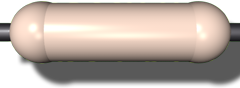
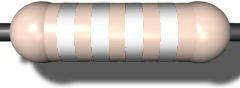
Modified ResistorView to allow user to select different colours on each band

diff --git a/Classes/ResistorViewController.m b/Classes/ResistorViewController.m
@@ -11,36 +11,52 @@
 
 @implementation ResistorViewController
 
-/*
- // The designated initializer. Override to perform setup that is required before the view is loaded.
- - (id)initWithNibName:(NSString *)nibNameOrNil bundle:(NSBundle *)nibBundleOrNil {
- if (self = [super initWithNibName:nibNameOrNil bundle:nibBundleOrNil]) {
- // Custom initialization
- }
- return self;
- }
- */
+@synthesize band1;
+@synthesize band2;
+@synthesize band3;
+@synthesize band4;
 
-/*
- // Implement loadView to create a view hierarchy programmatically, without using a nib.
- - (void)loadView {
- }
- */
-
-/*
- // Implement viewDidLoad to do additional setup after loading the view, typically from a nib.
- - (void)viewDidLoad {
- [super viewDidLoad];
- }
- */
-
-/*
- // Override to allow orientations other than the default portrait orientation.
- - (BOOL)shouldAutorotateToInterfaceOrientation:(UIInterfaceOrientation)interfaceOrientation {
- // Return YES for supported orientations
- return (interfaceOrientation == UIInterfaceOrientationPortrait);
- }
- */
+- (void)viewDidLoad {
+    [super viewDidLoad];
+	
+	// The colours that could be displayed on each band
+	int nColours = 12;
+	UIColor * colours[] = { 
+		[UIColor colorWithRed:0.75 green:0.75 blue:0.75 alpha:1.0], // Silver
+		[UIColor colorWithRed:1.00 green:0.84 blue:0.00 alpha:1.0], // Gold
+		[UIColor blackColor],
+		[UIColor brownColor],
+		[UIColor redColor],
+		[UIColor orangeColor],
+		[UIColor yellowColor],
+		[UIColor greenColor],
+		[UIColor blueColor],
+		[UIColor purpleColor],
+		[UIColor grayColor],
+		[UIColor whiteColor]
+	};
+	
+	// For each band
+	UIScrollView * bands[] = {band1, band2, band3, band4};
+	for (int band = 0; band < 4; band++)
+	{	
+		// Configure it's UIScrollView control
+		UIScrollView * bandCtrl = bands[band];
+		bandCtrl.contentSize = CGSizeMake(bandCtrl.bounds.size.width, bandCtrl.bounds.size.height * nColours);
+		bandCtrl.showsVerticalScrollIndicator = NO;
+		
+		// And add the coloured rectangles as subviews
+		for (int nColour = 0; nColour < nColours; nColour++)
+		{
+			UIView * colorView = [[UIView alloc] initWithFrame:CGRectMake(0, bandCtrl.bounds.size.height * nColour, bandCtrl.bounds.size.width, bandCtrl.bounds.size.height)];
+			colorView.backgroundColor = colours[nColour];
+			colorView.userInteractionEnabled = NO;
+			
+			[bandCtrl addSubview:colorView];
+			[colorView release];
+		}
+	}
+}
 
 - (void)didReceiveMemoryWarning {
 	// Releases the view if it doesn't have a superview.
@@ -54,8 +70,31 @@
 	// e.g. self.myOutlet = nil;
 }
 
+- (void) band:(int)bandIndex didSelectColor:(int)colorIndex
+{
+	NSLog(@"Band %d selected colour at index %d", bandIndex, colorIndex);
+}
+
+- (void)scrollViewDidEndDragging:(UIScrollView *)scrollView willDecelerate:(BOOL)decelerate
+{
+	// called on finger up if user dragged. decelerate is true if it will continue moving afterwards
+	if (!decelerate)
+	{
+		[self band:scrollView.tag didSelectColor:scrollView.contentOffset.y / scrollView.bounds.size.height];
+	}
+}
+
+- (void)scrollViewDidEndDecelerating:(UIScrollView *)scrollView
+{
+	// called when scroll view grinds to a halt
+	[self band:scrollView.tag didSelectColor:scrollView.contentOffset.y / scrollView.bounds.size.height];
+}
 
 - (void)dealloc {
+	[band1 release];
+	[band2 release];
+	[band3 release];
+	[band4 release];
     [super dealloc];
 }
 

diff --git a/Classes/ResistorViewController.h b/Classes/ResistorViewController.h
@@ -8,9 +8,16 @@
 
 #import <UIKit/UIKit.h>
 
-
-@interface ResistorViewController : UIViewController {
-	
+@interface ResistorViewController : UIViewController<UIScrollViewDelegate> {
+	UIScrollView * band1;
+	UIScrollView * band2;
+	UIScrollView * band3;
+	UIScrollView * band4;
 }
+
+@property (nonatomic, retain) IBOutlet UIScrollView * band1;
+@property (nonatomic, retain) IBOutlet UIScrollView * band2;
+@property (nonatomic, retain) IBOutlet UIScrollView * band3;
+@property (nonatomic, retain) IBOutlet UIScrollView * band4;
 
 @end
